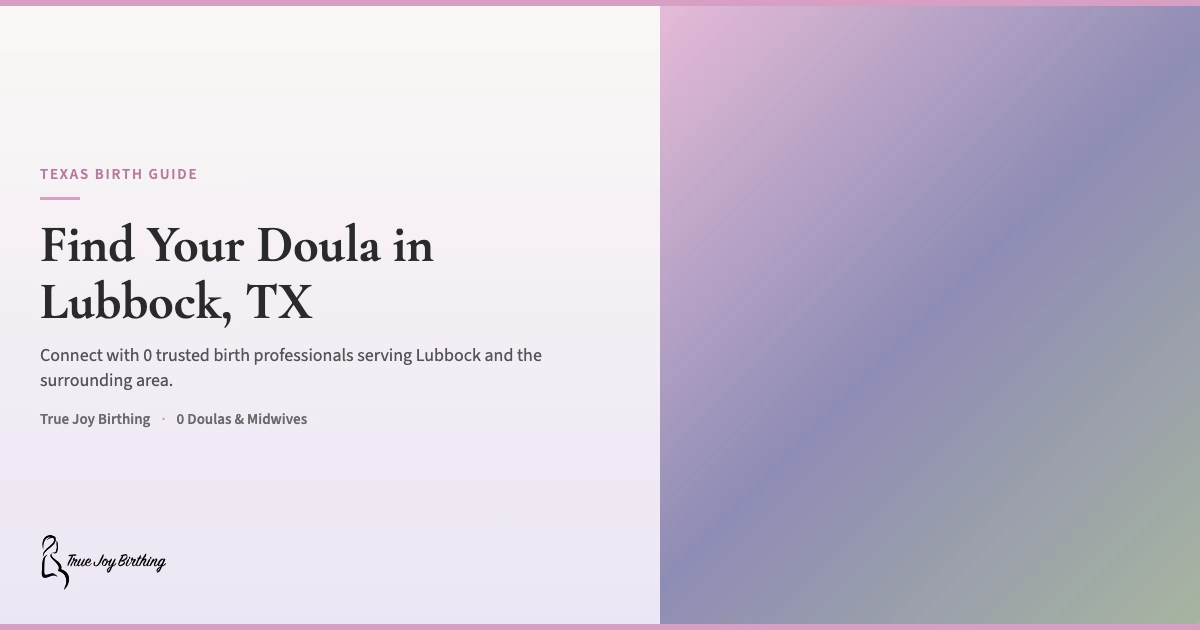
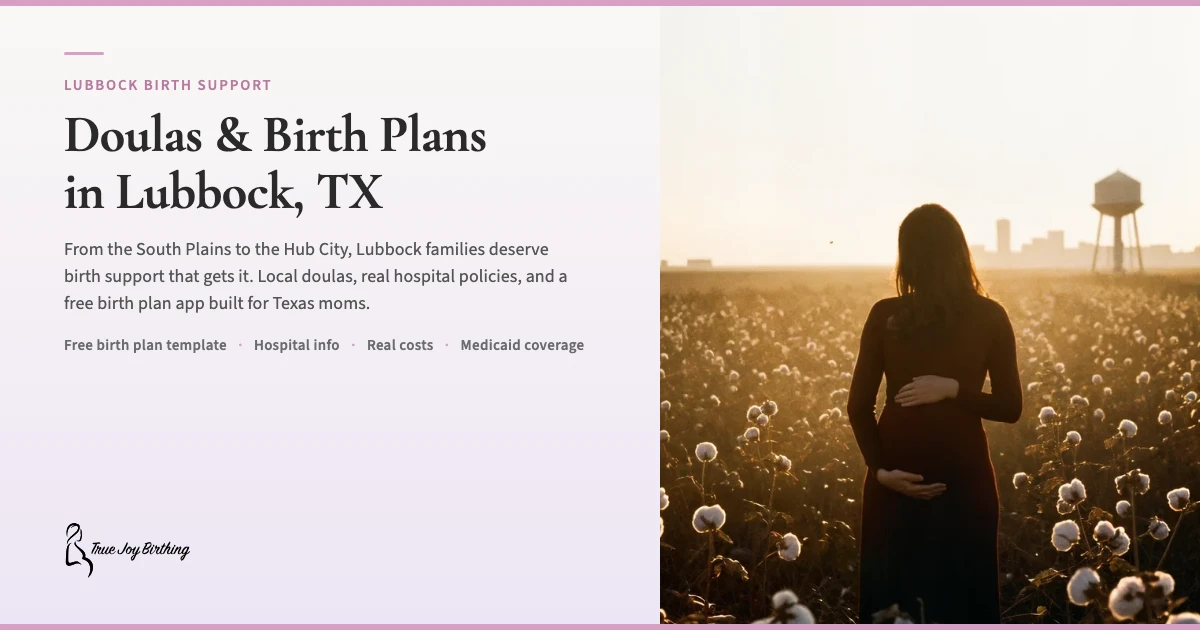
deploy: 2026-08-11 16:37 — deploy: 2026-08-11 16:35 — corpus-christi-tx: add lat/lng (27.8006,-97.3964) for G7 deploy gate

diff --git a/scripts/og-city-lubbock-tx-composition.html b/scripts/og-city-lubbock-tx-composition.html
@@ -1,0 +1,146 @@
+<!DOCTYPE html>
+<html>
+<head>
+<meta charset="utf-8">
+<link rel="preconnect" href="https://fonts.googleapis.com">
+<link rel="preconnect" href="https://fonts.gstatic.com" crossorigin>
+<link href="https://fonts.googleapis.com/css2?family=Cormorant+Garamond:wght@600;700&family=Source+Sans+3:wght@400;600;700&display=swap" rel="stylesheet">
+<style>
+  * { margin: 0; padding: 0; box-sizing: border-box; }
+  html, body {
+    width: 1200px;
+    height: 630px;
+    background: #FAF8F5;
+    overflow: hidden;
+  }
+  .og-card {
+    display: flex;
+    flex-direction: row;
+    width: 1200px;
+    height: 630px;
+  }
+  .left-column {
+    width: 660px;
+    display: flex;
+    flex-direction: column;
+    justify-content: center;
+    padding: 52px 64px;
+    background: linear-gradient(180deg, #FAF8F5 0%, #EDE5F5 100%);
+    position: relative;
+  }
+  .left-column::before {
+    content: '';
+    position: absolute;
+    top: 0; left: 0; right: 0;
+    height: 6px;
+    background: #D8A0C4;
+  }
+  .left-column::after {
+    content: '';
+    position: absolute;
+    bottom: 0; left: 0; right: 0;
+    height: 6px;
+    background: #D8A0C4;
+  }
+  .right-column {
+    width: 540px;
+    position: relative;
+    overflow: hidden;
+  }
+  .right-column img {
+    width: 100%;
+    height: 100%;
+    object-fit: cover;
+    object-position: center;
+  }
+  .right-column::before {
+    content: '';
+    position: absolute;
+    top: 0; left: 0; right: 0;
+    height: 6px;
+    background: #D8A0C4;
+    z-index: 2;
+  }
+  .right-column::after {
+    content: '';
+    position: absolute;
+    bottom: 0; left: 0; right: 0;
+    height: 6px;
+    background: #D8A0C4;
+    z-index: 2;
+  }
+  .accent-line {
+    width: 40px; height: 3px;
+    background: #D8A0C4;
+    border-radius: 2px;
+    margin-bottom: 20px;
+  }
+  .eyebrow {
+    font-family: 'Source Sans 3', system-ui, sans-serif;
+    font-weight: 600;
+    font-size: 15px;
+    color: #B87AA0;
+    text-transform: uppercase;
+    letter-spacing: 0.12em;
+    margin-bottom: 10px;
+  }
+  .headline {
+    font-family: 'Cormorant Garamond', Georgia, serif;
+    font-weight: 700;
+    font-size: 52px;
+    color: #2A2A2A;
+    letter-spacing: -0.01em;
+    line-height: 1.1;
+    margin-bottom: 16px;
+  }
+  .summary {
+    font-family: 'Source Sans 3', system-ui, sans-serif;
+    font-weight: 400;
+    font-size: 18px;
+    color: #555555;
+    letter-spacing: 0.005em;
+    line-height: 1.5;
+    margin-bottom: 18px;
+    max-width: 520px;
+  }
+  .subhead {
+    font-family: 'Source Sans 3', system-ui, sans-serif;
+    font-weight: 600;
+    font-size: 15px;
+    color: #6A6B6C;
+    letter-spacing: 0.02em;
+  }
+  .subhead span {
+    margin: 0 8px;
+    color: #D8A0C4;
+  }
+  .logo-area {
+    margin-top: auto;
+    padding-top: 20px;
+    display: flex;
+    align-items: center;
+  }
+  .logo-area img {
+    height: 56px;
+    width: auto;
+  }
+</style>
+</head>
+<body>
+<div class="og-card">
+  <div class="left-column">
+    <div class="accent-line"></div>
+    <div class="eyebrow">LUBBOCK BIRTH SUPPORT</div>
+    <div class="headline">Doulas & Birth Plans<br>in Lubbock, TX</div>
+    <div class="summary">From the South Plains to the Hub City, Lubbock families deserve birth support that gets it. Local doulas, real hospital policies, and a free birth plan app built for Texas moms.</div>
+    <div class="subhead">Free birth plan template <span>·</span> Hospital info <span>·</span> Real costs <span>·</span> Medicaid coverage</div>
+    <div class="logo-area">
+      <img src="https://truejoybirthing.com/images/logo-mono.svg" alt="True Joy Birthing" />
+    </div>
+  </div>
+  <div class="right-column">
+    <img src="file:///Users/socializerender/Projects/truejoybirthing-website/public/images/lubbock-tx-birth-doula-skyline-v2.webp" alt="Lubbock" />
+  </div>
+</div>
+</body>
+</html>
